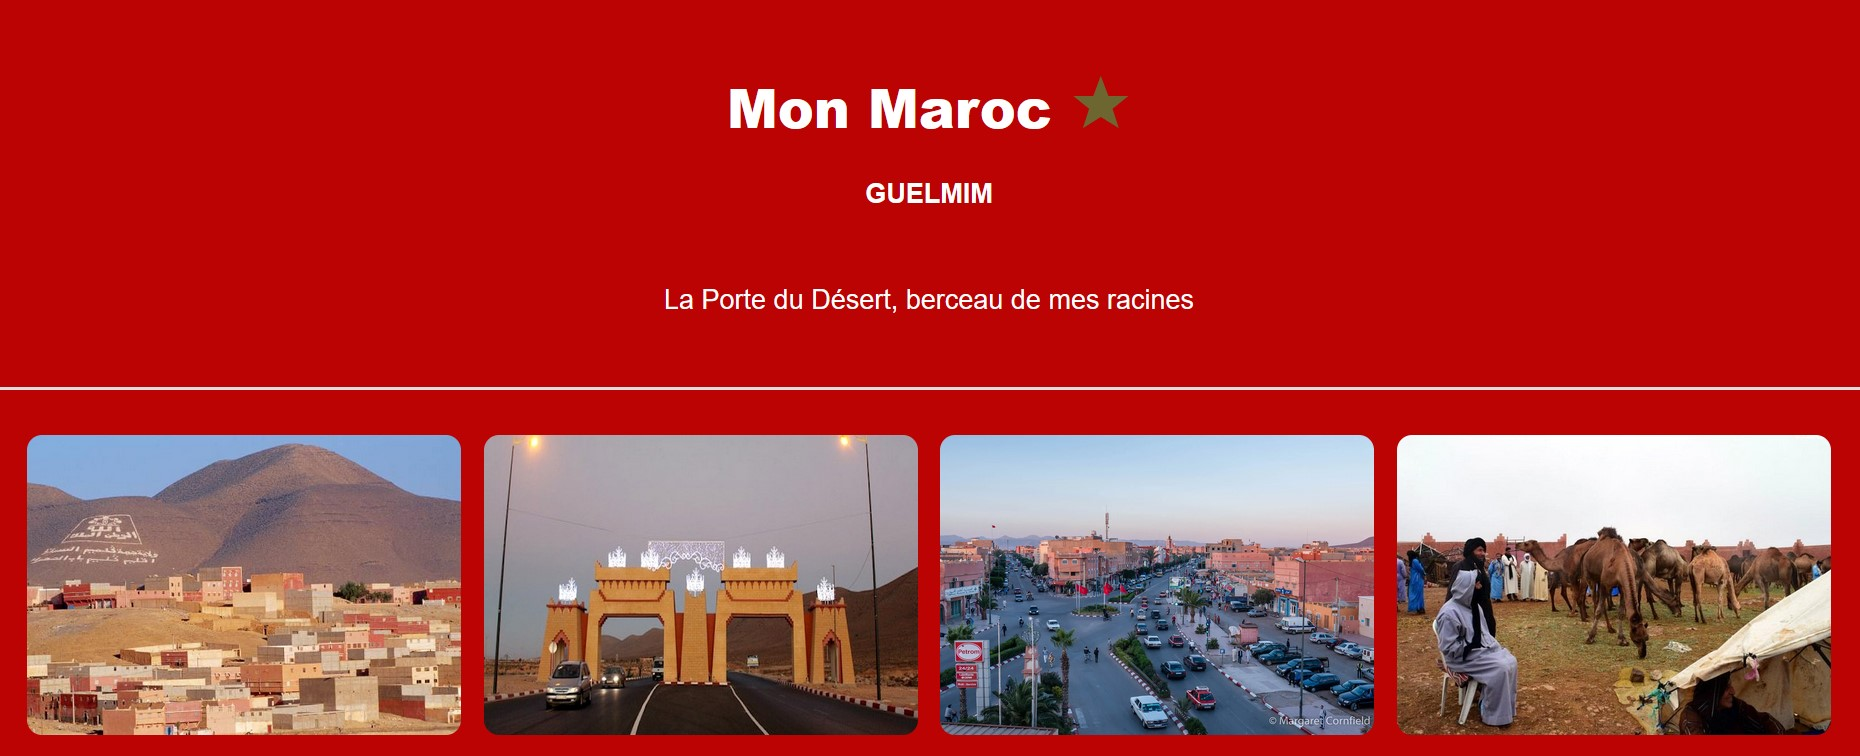
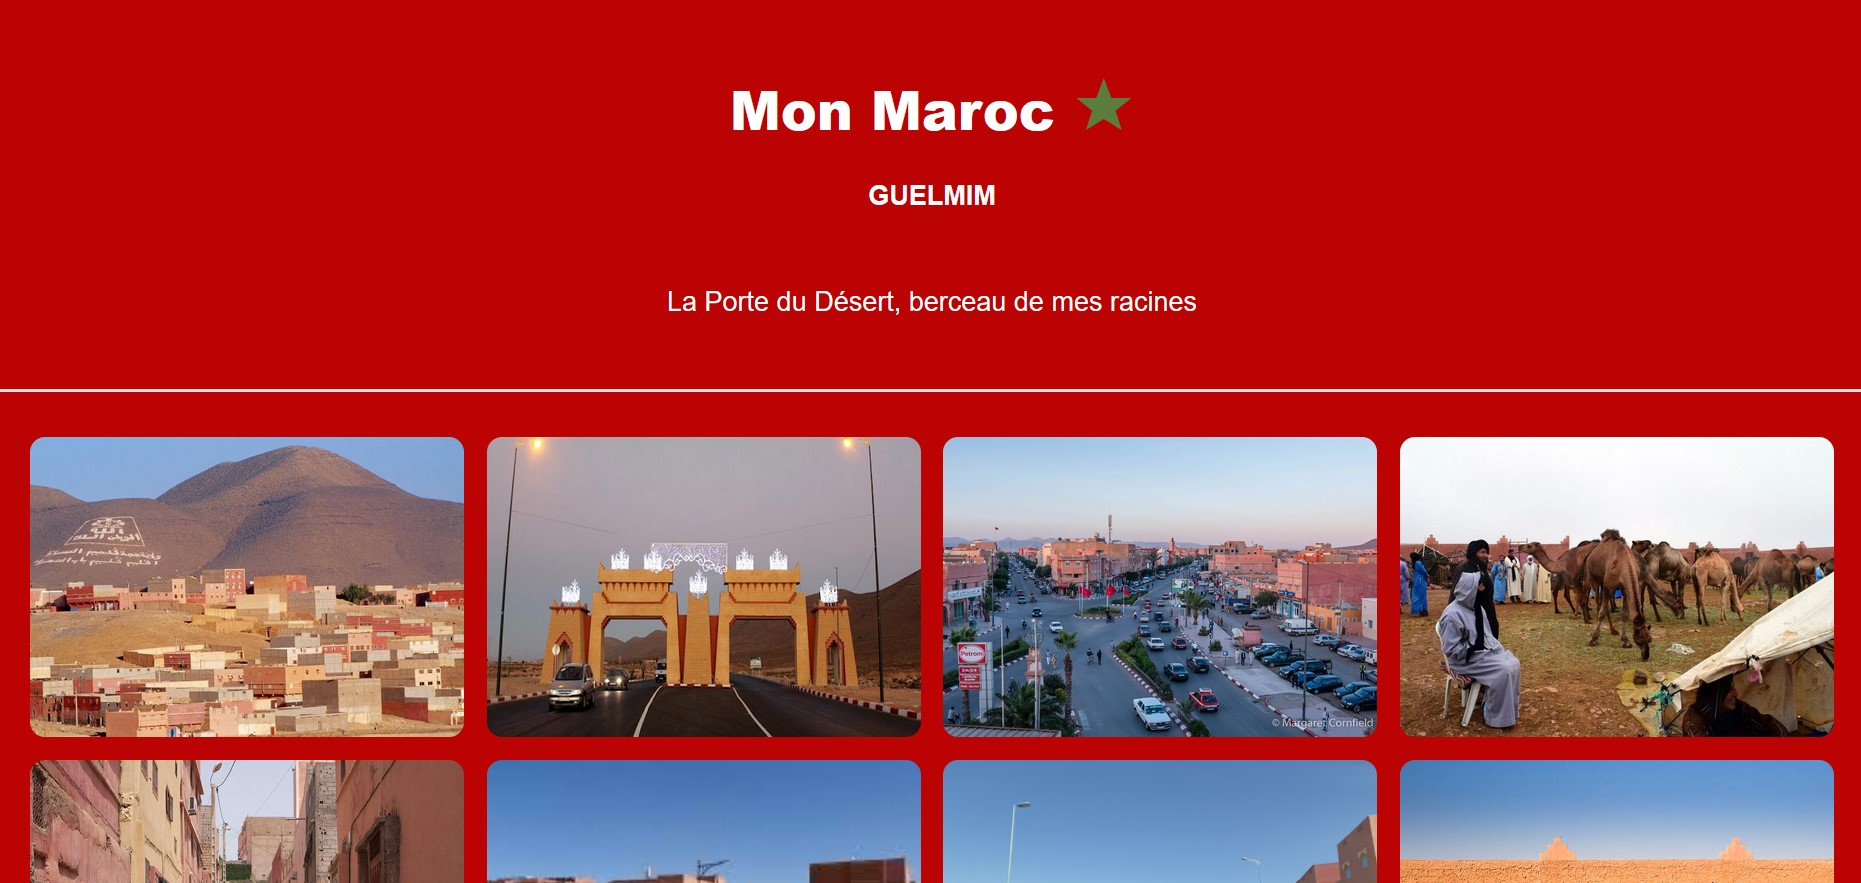
Mise à jour des cartes projets alignées

diff --git a/index.html b/index.html
@@ -75,42 +75,47 @@
         </div>
     </section>
 
-    <!-- Projets -->
-    <section id="projects" class="px-6 md:px-10 max-w-6xl mx-auto">
-      <h2 class="text-3xl font-bold text-yellow-300 mb-10">Mes Projets</h2>
-      <div class="grid md:grid-cols-3 gap-6">
-        <!-- Projet 1 -->
-        <div class="bg-gray-800 p-6 rounded-xl shadow-lg hover:scale-105 transition">
-          <h3 class="text-xl font-semibold mb-2">Création d'un Fansite</h3>
-          <p class="text-sm text-gray-300 mb-2"><strong>Technos :</strong> HTML, CSS, JavaScript</p>
-          <p class="mb-4">Site web dédié aux fans de Beyoncé, offrant une expérience fluide et interactive.</p>
-          <a href="https://inquisitive-duckanoo-875a2c.netlify.app/" class="text-yellow-400 hover:underline" target="_blank"><b>Voir le projet</a></b>
-          <a href="https://inquisitive-duckanoo-875a2c.netlify.app/" class="project-deployed-link">
-            <img src="img1.jpg" alt="Aperçu de mon projet" class="deployed-preview">
-          </a>
-        </div>
+<!-- Projets -->
+<section id="projects" class="px-6 md:px-10 max-w-6xl mx-auto">
+  <h2 class="text-3xl font-bold text-yellow-300 mb-10">Mes Projets</h2>
+  <div class="grid md:grid-cols-3 gap-6">
+    
+    <!-- Projet 1 -->
+    <div class="bg-gray-800 p-6 rounded-xl shadow-lg hover:scale-105 transition">
+      <h3 class="text-xl font-semibold mb-2">Création d'un Fansite</h3>
+      <p class="text-sm text-gray-300 mb-2"><strong>Technos :</strong> HTML, CSS, JavaScript</p>
+      <p class="mb-4">Site dédié à Beyoncé.</p>
+      <a href="https://inquisitive-duckanoo-875a2c.netlify.app/" class="text-yellow-400 hover:underline font-bold" target="_blank">Voir le projet</a>
+      <a href="https://inquisitive-duckanoo-875a2c.netlify.app/" target="_blank">
+        <img src="img1.jpg" alt="Aperçu du projet Fansite" class="mt-4 w-full rounded-lg object-cover">
+      </a>
+    </div>
 
-        <!-- Projet 2 -->
-        <div class="bg-gray-800 p-6 rounded-xl shadow-lg hover:scale-105 transition">
-          <h3 class="text-xl font-semibold mb-2">Galerie de voyage</h3>
-          <p class="text-sm text-gray-300 mb-2"><strong>Technos :</strong> HTML, CSS, JS, Tailwind, Bootstrap</p>
-          <p class="mb-4">Galerie de photo de voyage au coeur du Sud marocain.</p>
-          <a href="https://guelmim-boussamganefamily.netlify.app/" class="text-yellow-400 hover:underline" target="_blank"><b>Voir le projet</a></b>
-          <a href="https://guelmim-boussamganefamily.netlify.app/" class="project-deployed-link">
-            <img src="img2.jpg" alt="Aperçu de mon projet" class="deployed-preview">
-          
+    <!-- Projet 2 -->
+    <div class="bg-gray-800 p-6 rounded-xl shadow-lg hover:scale-105 transition">
+      <h3 class="text-xl font-semibold mb-2">Galerie de voyage</h3>
+      <p class="text-sm text-gray-300 mb-2"><strong>Technos :</strong> HTML, CSS, JS, Tailwind, Bootstrap</p>
+      <p class="mb-4">Voyage au cœur du Sud marocain.</p>
+      <a href="https://guelmim-boussamganefamily.netlify.app/" class="text-yellow-400 hover:underline font-bold" target="_blank">Voir le projet</a>
+      <a href="https://guelmim-boussamganefamily.netlify.app/" target="_blank">
+        <img src="img2.jpg" alt="Aperçu Galerie de voyage" class="mt-4 w-full rounded-lg object-cover">
+      </a>
+    </div>
 
-        </div>
+    <!-- Projet 3 -->
+    <div class="bg-gray-800 p-6 rounded-xl shadow-lg hover:scale-105 transition">
+      <h3 class="text-xl font-semibold mb-2">Site de recette</h3>
+      <p class="text-sm text-gray-300 mb-2"><strong>Technos :</strong> HTML, CSS, JS, JSON</p>
+      <p class="mb-4">Site de recettes.</p>
+      <a href="https://tranquil-dango-aea124.netlify.app/" class="text-yellow-400 hover:underline font-bold" target="_blank">Voir le projet</a>
+      <a href="https://tranquil-dango-aea124.netlify.app/" target="_blank">
+        <img src="img3.jpg" alt="Aperçu Site de recette" class="mt-4 w-full rounded-lg object-cover">
+      </a>
+    </div>
 
-        <!-- Projet 3 -->
-        <div class="bg-gray-800 p-6 rounded-xl shadow-lg hover:scale-105 transition">
-          <h3 class="text-xl font-semibold mb-2">Site de recette</h3>
-          <p class="text-sm text-gray-300 mb-2"><strong>Technos :</strong> HTML, CSS, JS, JSON</p>
-          <p class="mb-4">Recettes avec favoris<br>et<br>pop-up dynamique.</p>
-          <a href="https://github.com/Dylan-Troude/happymeal.git" class="text-yellow-400 hover:underline" target="_blank"><b>Voir le projet</a></b>
-        </div>
-      </div>
-    </section>
+  </div>
+</section>
+
 
     <!-- Compétences -->
     <section id="skills" class="px-6 md:px-10 max-w-5xl mx-auto">
